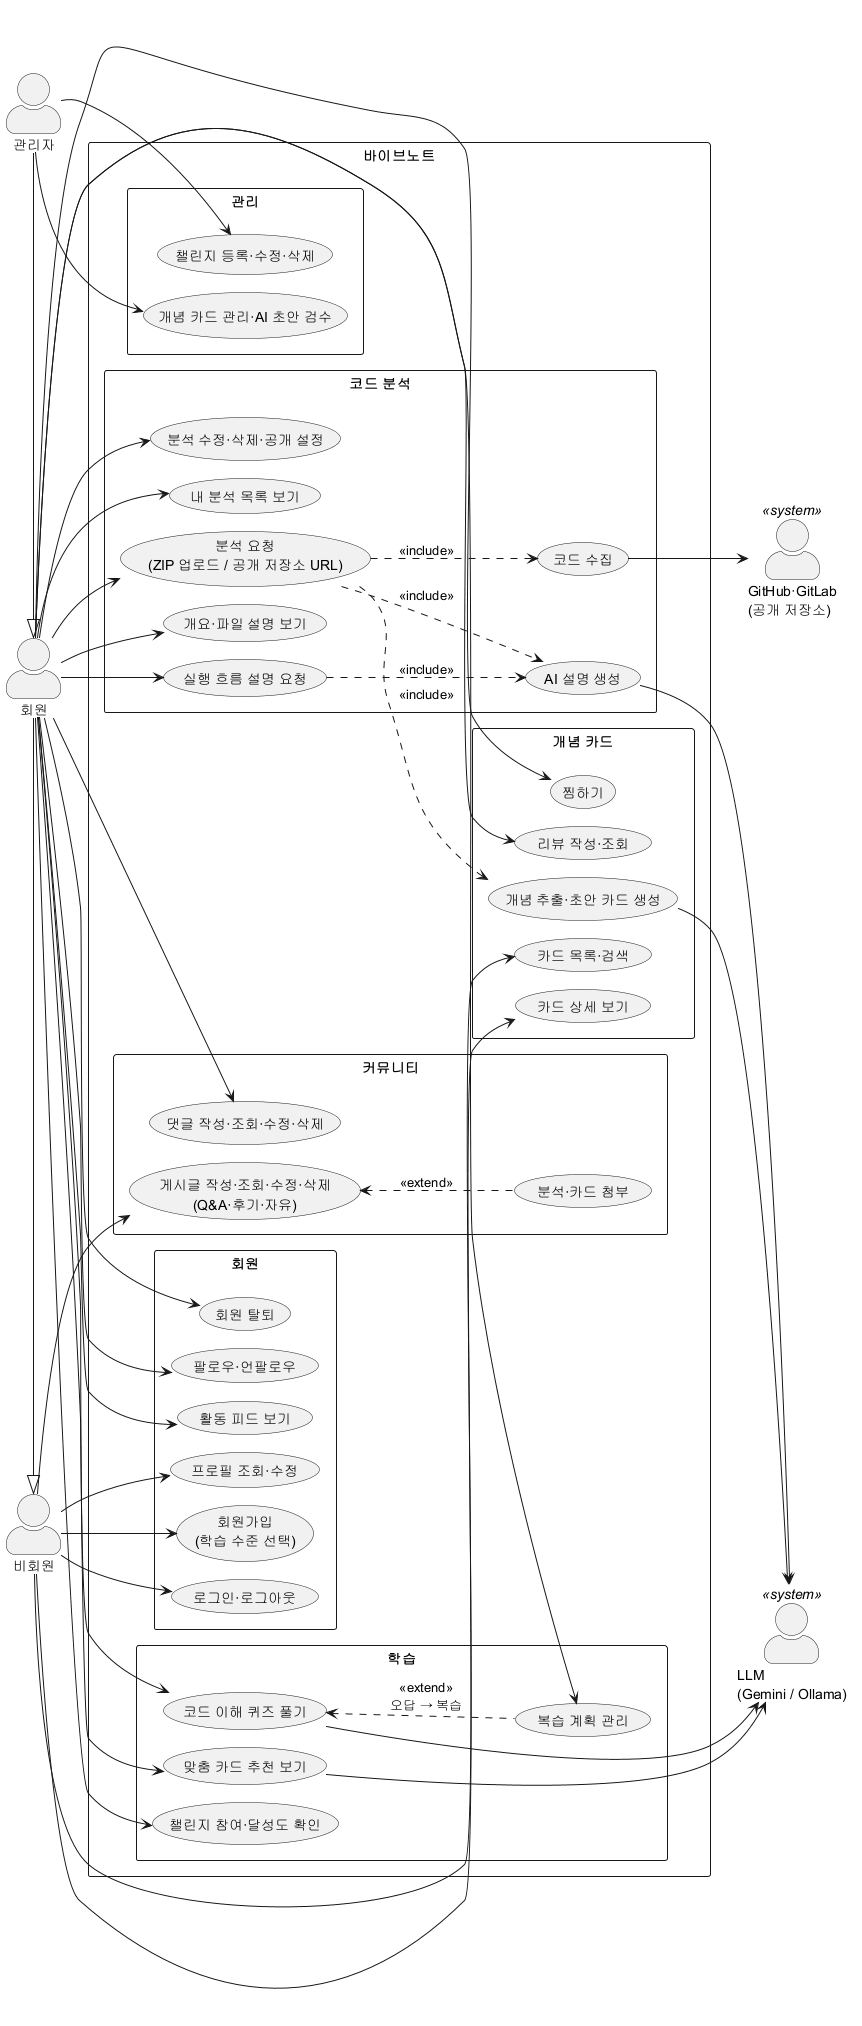
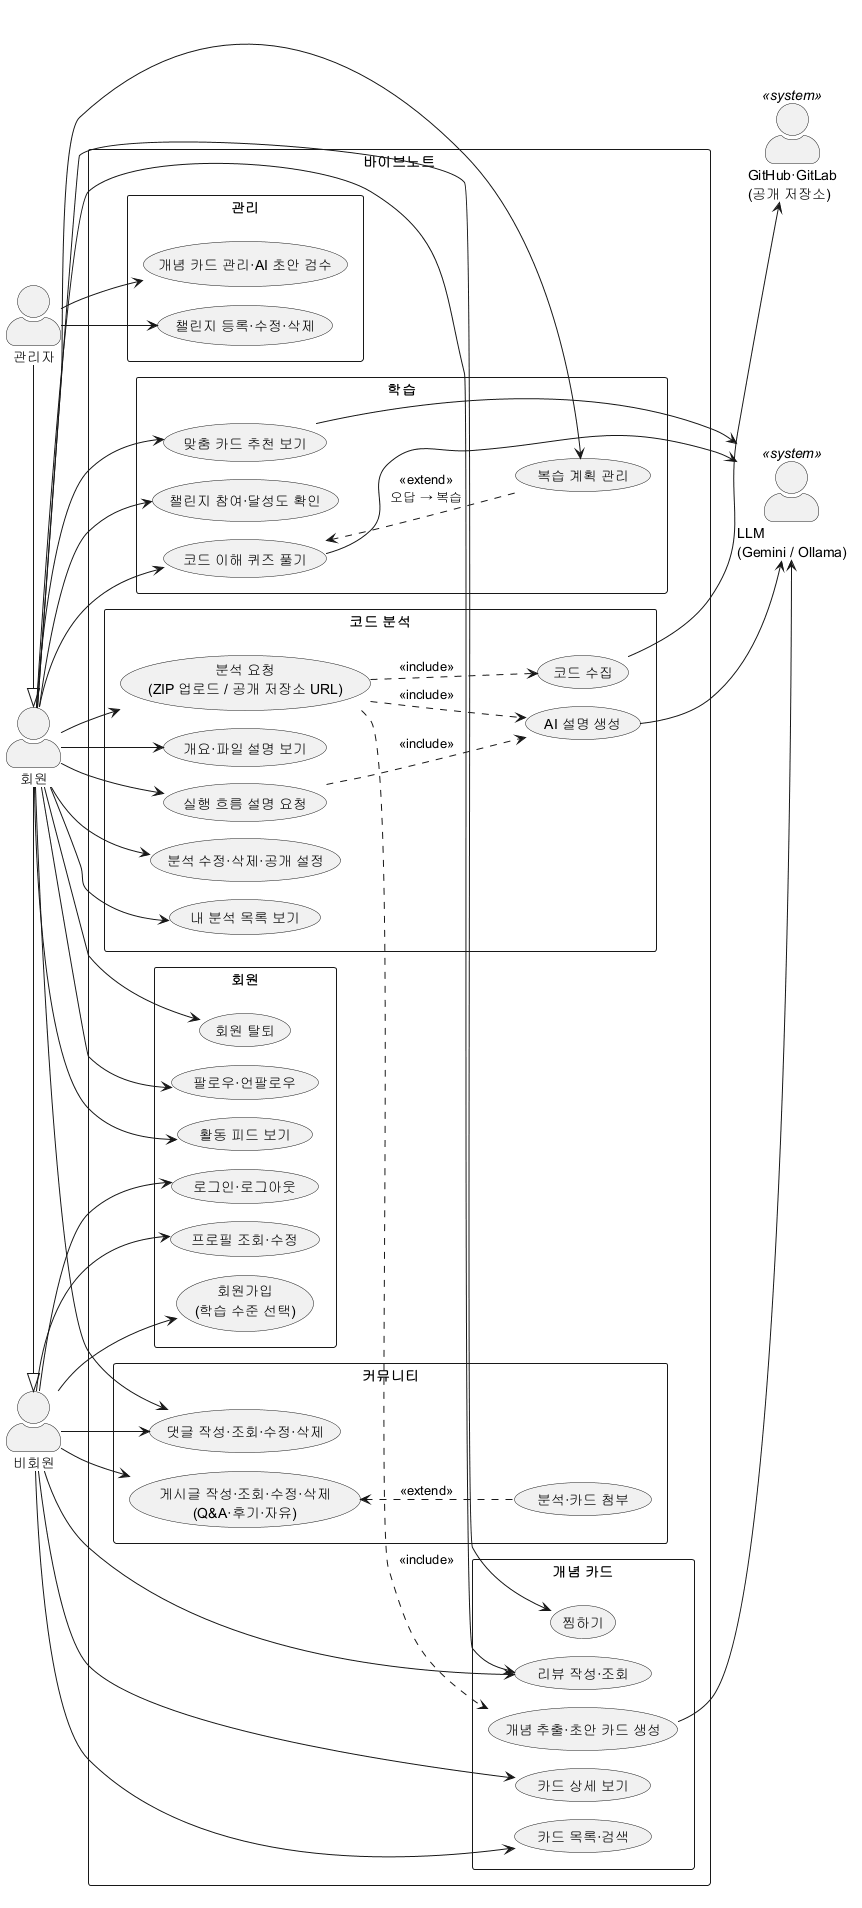
fix(common): 유스케이스 reviewer 지적 반영
- 반드시: UC22·UC41 비회원 조회 액터(표·puml·png), UC24 실패 처리는 F-08 spec 결정으로
- 권장: UC14 단계 구분을 구현에 맞춤, UC15 호출 종류별 실패 처리, UC10 QUIZ 단계, UC30 점수 표기, 기획 기준 대안 흐름은 예시임을 명시
- 내 분석 목록을 F-05a로 정리 (요구사항 정의서 F-05·F-06 행, 결정로그)

diff --git a/docs/산출물/02-유스케이스.md b/docs/산출물/02-유스케이스.md
@@ -3,7 +3,7 @@
 > 작성 상태: ✅ 초판 (2026-11-19) · 다이어그램 소스: [`diagrams/usecase.puml`](diagrams/usecase.puml) (PlantUML) · 이미지: [`diagrams/usecase.png`](diagrams/usecase.png)
 > GitHub는 PlantUML을 바로 렌더링하지 않으므로 소스와 이미지를 함께 둔다. 소스를 고치면 이미지도 다시 만들어 같은 커밋에 넣는다:
 > `java -jar plantuml.jar -tpng -charset UTF-8 docs/산출물/diagrams/usecase.puml` (jar는 Maven Central `net.sourceforge.plantuml:plantuml`, 저장소에 넣지 않는다. 소스의 `!pragma layout smetana` 덕분에 Graphviz 없이 JDK만으로 된다)
-> 흐름은 spec이 있는 기능은 spec 수용 기준을, 없는 기능은 `docs/기획서.md` 2절을 따른다. 후자는 제목에 **(기획 기준)**을 붙였고, 그 기능의 spec·PR에서 이 절을 고친다.
+> 흐름은 spec이 있는 기능은 spec 수용 기준을, 없는 기능은 `docs/기획서.md` 2절을 따른다. 후자는 제목에 **(기획 기준)**을 붙였고, 그 대안 흐름은 예시이며 세부 정책은 그 기능의 spec에서 확정해 spec·PR에서 이 절을 고친다.
 
 ![Use-Case Diagram](diagrams/usecase.png)
 
@@ -36,7 +36,7 @@
 | UC16 | 내 분석 목록 보기 | 회원 | F-05a | 최신순, 상태·진행률 (명세서 F1302 목록 조회) |
 | UC20 | 카드 목록·검색 | 비회원/회원 | F-09 | 필터·정렬 |
 | UC21 | 카드 상세 보기 | 비회원/회원 | F-10 | 내 코드 등장 위치는 회원만 |
-| UC22 | 리뷰 작성·조회 | 회원 | F-11 | 별점 + 한 줄 |
+| UC22 | 리뷰 작성·조회 | 비회원(조회)/회원 | F-11 | 별점 + 한 줄 |
 | UC23 | 찜하기 | 회원 | F-12 | |
 | UC24 | 개념 추출·초안 카드 생성 | (시스템) | F-08 | 없는 개념은 검수 대기 초안 |
 | UC30 | 코드 이해 퀴즈 풀기 | 회원 | F-14 | 오답은 복습 계획으로 확장(extend) |
@@ -44,7 +44,7 @@
 | UC32 | 맞춤 카드 추천 보기 | 회원 | F-16 | 추천 이유는 LLM |
 | UC33 | 챌린지 참여·달성도 확인 | 회원 | F-25 | |
 | UC40 | 게시글 CRUD | 비회원(조회)/회원 | F-17 | 게시판 3종 |
-| UC41 | 댓글 CRUD | 회원 | F-18 | |
+| UC41 | 댓글 CRUD | 비회원(조회)/회원 | F-18 | |
 | UC42 | 분석·카드 첨부 | 회원 | F-17 | 게시글 작성의 확장 |
 | UC50 | 개념 카드 관리·검수 | 관리자 | F-13 | |
 | UC51 | 챌린지 관리 | 관리자 | F-24 | 이미지 업로드 포함 |
@@ -100,7 +100,7 @@
 
 1. 회원이 `/analyses/new`에서 ZIP 파일을 고르고 학습 수준(기본은 내 수준)을 정한 뒤, 코드가 Gemini로 전송된다는 고지에 동의하고 "분석 요청"을 누른다.
 2. 시스템이 파일(.zip 시그니처, 10MB 이하)과 하루 한도(실패 제외 5회)를 검증하고, 분석을 `FETCHING` 상태로 만든 뒤 상세 화면으로 보낸다.
-3. 시스템이 비동기로 코드 수집(UC14) → AI 설명 생성(UC15) → 개념 추출(UC24)을 실행하고, 화면은 2초마다 단계 이름과 진행률을 보여 준다.
+3. 시스템이 비동기로 코드 수집(UC14) → AI 설명 생성(UC15) → 개념 추출(UC24) → 퀴즈 생성(F-14, `QUIZ` 단계)을 실행하고, 화면은 2초마다 단계 이름과 진행률을 보여 준다.
 4. 완료되면 "분석이 끝났습니다"와 결과 탭(UC11)을 보여 준다.
 - 대안 흐름: 파일·동의·수준 검증 실패 → 필드 아래 사유 (COMMON_400) / 10MB 초과 → 업로드 전에 화면이 막음, 서버는 COMMON_413 / 하루 한도 초과 → ANALYSIS_429 / 단계 실패 → 사유 문구와 "다시 요청하기" (UC14·UC15의 오류 코드)
 - 공개 저장소 URL 입력(F-05b)은 기획 기준: URL을 입력하면 UC14가 ZIP 대신 저장소 아카이브를 내려받는다. 비공개·없는 저장소는 실패 처리한다.
@@ -129,8 +129,8 @@
 
 ### UC14 코드 수집 (시스템, F-05a)
 
-1. 시스템이 업로드된 ZIP을 디스크에 풀지 않고 메모리에서 읽으며 공통 최상위 폴더를 뗀다 (`FETCHING`).
-2. 지원 파일(`.java`·`.js`·`.mjs`·`.vue`·mapper XML·설정)만 남기고 `node_modules/`·`build/`·`.env`·키 파일·이미지를 버린다 (`FILTERING`).
+1. 시스템이 업로드된 임시 ZIP이 있는지 확인한다 (`FETCHING`. URL 입력이면 이 단계에서 저장소 아카이브를 내려받는다, F-05b).
+2. ZIP을 디스크에 풀지 않고 읽으며 공통 최상위 폴더를 떼고, 지원 파일(`.java`·`.js`·`.mjs`·`.vue`·mapper XML·설정)만 남겨 `node_modules/`·`build/`·`.env`·키 파일·이미지를 버린다 (`FILTERING`).
 3. 파일 내용의 API 키·비밀번호·개인 키를 `[REDACTED]`로 바꾸고, 레이어 우선순위로 최대 30개를 골라 저장한다 (`SELECTING`). 임시 ZIP은 성공·실패와 관계없이 지운다.
 - 대안 흐름: 지원 파일 200개 초과·합계 10MB 초과 → ANALYSIS_413 / 지원 파일 없음 → ANALYSIS_415 / 루트 밖 경로·손상된 ZIP → ANALYSIS_400 / 예기치 못한 오류·서버 재시작 → ANALYSIS_500
 
@@ -139,7 +139,8 @@
 1. 시스템이 분석 수준(입문·주니어·숙련)별 프롬프트 템플릿으로 개요 1회, 파일 설명을 6개씩 묶어 LLM을 호출한다 (`EXPLAINING`). 코드는 구분자로 감싸고 코드 안의 지시는 따르지 않게 한다.
 2. 응답 JSON을 검증해 개요·파일 설명을 저장하고, 호출마다 사용량을 기록한다. controller 어노테이션에서 API 목록을 탐지해 개요에 넣는다.
 3. 실행 흐름(UC12)도 같은 방식으로 흐름 1개당 1회 호출한다.
-- 대안 흐름: 응답 형식 오류 → 같은 요청 1회만 재시도, 두 번 다 틀리면 개요는 분석 실패(LLM_502), 파일 묶음은 그 파일만 설명 없음 / Gemini 실패 → Ollama로 폴백, 둘 다 실패하면 LLM_503
+- 대안 흐름: 응답 형식 오류 → 같은 요청 1회만 재시도. 두 번 다 틀리면 개요는 분석 `FAILED`(LLM_502), 파일 묶음은 그 묶음의 파일만 설명 없이 계속, 실행 흐름은 그 흐름만 `FAILED`(LLM_502)
+- 대안 흐름: Gemini 실패 → Ollama로 폴백. 둘 다 실패하면(LLM_503, 재시도 없음) 개요는 분석 `FAILED`, 파일 묶음은 그 묶음만 설명 없이 계속, 실행 흐름은 그 흐름만 `FAILED`
 
 ### UC16 내 분석 목록 보기 (F-05a)
 
@@ -181,15 +182,15 @@
 1. 분석 파이프라인의 설명 단계 뒤에 시스템이 LLM으로 코드에 쓰인 개념(JWT, 트랜잭션 등)과 등장 위치를 추출한다.
 2. 이미 있는 카드와 이름이 맞으면 분석·파일과 연결한다 (UC21의 "내 코드에서 등장한 위치").
 3. 없는 개념만 AI가 초안 카드를 만들어 검수 대기(`DRAFT`)로 둔다. 초안은 관리자 검수(UC50) 전까지 사용자에게 보이지 않는다.
-- 대안 흐름: 추출 응답 형식 오류·LLM 실패 → 개념 연결 없이 분석은 완료(설명은 볼 수 있음)
+- 대안 흐름: 추출 응답 형식 오류 → 같은 요청 1회 재시도. 그래도 실패하거나 LLM이 실패했을 때의 처리(단계 `FAILED` 또는 연결 없이 완료)는 F-08 spec에서 결정
 
 ### UC30 코드 이해 퀴즈 풀기 (F-14, 기획 기준)
 
 1. 회원이 완료된 분석에서 "퀴즈 풀기"를 누른다.
-2. 시스템이 그 분석의 코드와 개념으로 만든 객관식 5~10문항을 보여 준다.
-3. 회원이 답을 제출하면 시스템이 채점하고 문항별 정답·해설과 관련 개념 카드를 보여 준다. 풀이 기록은 학습 통계(UC03)와 챌린지 달성도(UC33)에 반영된다.
+2. 시스템이 분석 파이프라인(`QUIZ` 단계)에서 그 분석의 코드와 개념으로 만들어 둔 객관식 5~10문항을 보여 준다.
+3. 회원이 답을 제출하면 시스템이 채점해 점수(맞힌 수/문항 수)와 문항별 정답·해설, 관련 개념 카드를 보여 준다. 풀이 기록은 학습 통계(UC03)와 챌린지 달성도(UC33)에 반영된다.
 4. 틀린 문항의 개념은 복습 계획에 자동으로 추가된다 (UC31, extend).
-- 대안 흐름: 퀴즈 생성 실패 → 안내와 다시 시도
+- 대안 흐름: 퀴즈가 만들어지지 않은 분석 → 안내 (재생성 여부는 F-14 spec에서 결정)
 
 ### UC31 복습 계획 관리 (F-15, 기획 기준)
 

diff --git a/docs/산출물/01-요구사항정의서.md b/docs/산출물/01-요구사항정의서.md
@@ -29,8 +29,8 @@
 | F-02 | 회원 | 로그인·로그아웃 | 이메일·비밀번호로 로그인하면 JWT(Access + Refresh)를 발급하고, 만료 시 재발급한다. 로그아웃하면 Refresh 토큰을 폐기한다 | 기본 | P0 | ① |
 | F-03 | 회원 | 프로필 관리·회원 탈퇴 | 내 정보 조회·수정(닉네임, 소개, 수준), 학습 통계(분석 수, 학습한 카드, 퀴즈 정답률) 조회. 탈퇴는 비활성화 방식으로 처리하고 개인정보를 마스킹한다 | 기본 | P0 | ⑤ |
 | F-04 | 소셜 | 팔로우·활동 피드 | 다른 회원을 팔로우·언팔로우하고 팔로워·팔로잉 목록을 조회한다. 팔로우한 사람의 공개 활동(분석, 리뷰, 찜, 게시글, 챌린지)을 피드로 본다 | 추가 | P0 | ⑥ |
-| F-05 | 분석 | 분석 요청 | 공개 저장소 URL 또는 ZIP을 등록한다. 지원 스택과 크기를 검증하고 `.env`·키 패턴을 제거한 뒤 비동기로 분석한다. 분석마다 설명 수준을 바꿀 수 있다 (F-05a ZIP, F-05b URL) | 기본 | P0 | ⑬ |
-| F-06 | 분석 | 개요·파일별 설명 | 프로젝트 목적, 레이어 구조, 주요 파일의 역할을 수준에 맞춰 설명한다. 내 분석 목록과 상세를 조회한다 | 기본·심화 | P0 | ⑬ |
+| F-05 | 분석 | 분석 요청 | 공개 저장소 URL 또는 ZIP을 등록한다. 지원 스택과 크기를 검증하고 `.env`·키 패턴을 제거한 뒤 비동기로 분석한다. 분석마다 설명 수준을 바꿀 수 있다. 내 분석 목록과 진행 상태를 조회한다 (F-05a ZIP, F-05b URL) | 기본 | P0 | ⑬ |
+| F-06 | 분석 | 개요·파일별 설명 | 프로젝트 목적, 레이어 구조, 주요 파일의 역할을 수준에 맞춰 설명한다. 분석 상세(개요·파일)를 조회한다 | 기본·심화 | P0 | ⑬ |
 | F-07 | 분석 | 실행 흐름 설명 | 탐지된 API 중 사용자가 고른 1~3개의 요청→응답 흐름을 단계별로 설명한다(결과 캐시) | 심화 | P0 | ⑬ |
 | F-08 | 개념 카드 | 개념 추출·연결 | 코드에 쓰인 개념을 추출해 기존 카드와 연결하고, 없는 개념은 AI 초안 카드를 만들어 검수 대기로 둔다 | 심화 | P0 | ⑦ ⑬ |
 | F-09 | 개념 카드 | 목록·검색 | 키워드·카테고리·난이도로 필터하고 인기순·최신순으로 정렬한다 | 기본 | P0 | ⑧ |

diff --git a/docs/결정로그.md b/docs/결정로그.md
@@ -75,3 +75,4 @@
 | 2026-11-19 | follow-up 이슈 순환: 만들 때 `area:*` 라벨·담당자를 달고(이슈 템플릿), 세션 시작 배너·`/pickup`이 내 영역·공통·분류 필요 이슈를 보여 주고, `/spec`이 흡수할 이슈를 spec "관련 이슈"에 적고, `/progress`가 영역별 열림·7일 넘음을 점검한다. 해결 PR의 `Closes #n`은 `close-issues` 워크플로가 develop 머지 때 닫는다. 기능 자체는 이슈로 관리하지 않는다(spec·NOW가 정본) | 이슈를 만들기만 하고 다시 보는 단계가 없어 8개가 담당자 없이 쌓임. develop이 기본 브랜치가 아니라 `Closes`가 동작하지 않음 | 기능도 이슈·마일스톤·Projects로 관리(NOW·spec·진행현황과 중복), 배너 표시만 |
 | 2026-11-19 | FE 헤더 메뉴는 route `meta.nav`(`label`·`order`·`show`)로, 관리자 사이드 메뉴는 `/admin` 자식 route의 `meta.adminNav`로 정한다. route는 `router/routes/<도메인>.js`로 나누고 기능 PR은 자기 도메인 파일만 고친다 (F-00b) | nav 배열을 따로 두면 기능마다 공통 파일을 함께 고쳐 충돌함 | `router/nav.js` 도메인 블록 |
 | 2026-11-19 | 로컬·시연 관리자 계정은 `app.admin.bootstrap-email`(환경변수 `ADMIN_BOOTSTRAP_EMAIL`)에 적은 가입 회원을 기동 시 ADMIN으로 승격해 만든다. 저장소에는 이메일·비밀번호를 두지 않는다 (F-00b) | 관리자 레이아웃(F-00b)·카드 검수(F-13)·챌린지 관리(F-24)를 로컬에서 확인할 계정이 필요함 | 시드 관리자 계정, SQL 수동 안내 |
+| 2026-11-19 | "내 분석 목록"(명세서 F1302 목록 조회)은 F-05a에 속한다 (`GET /api/analyses`, SC-06). 유스케이스 UC16·요구사항 정의서 F-05 행에 반영하고, 기획서 화면 목록의 F-19 표기는 공개 설정 등 관리 기능만 뜻한다 | F-05a AC12·AC16으로 이미 구현됐는데 기획서 화면 목록(F-19)·요구사항 정의서(F-06)·유스케이스가 서로 다르게 적힘 (유스케이스 PR reviewer 지적) | 기획서 표 수정(기존 행 불변 규칙) |
